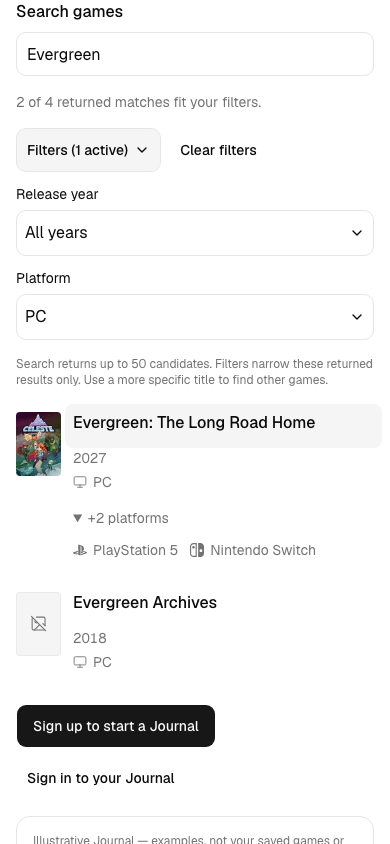
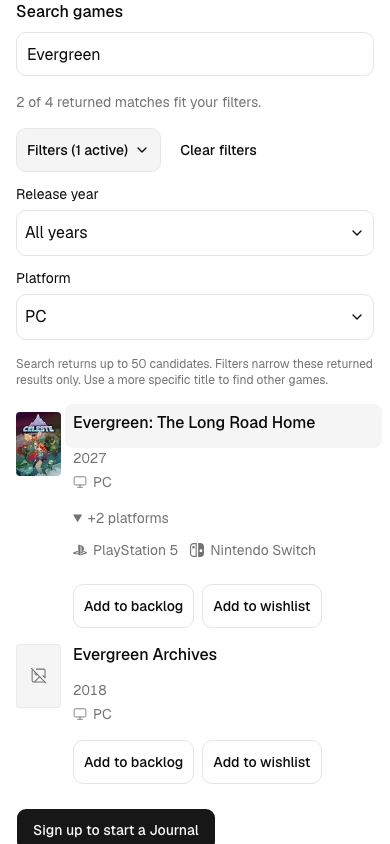
docs: refresh combined Home screenshots and final acceptance results

Changed region(s): [[0.0308, 0.7085, 0.8923, 1.0], [0.5538, 0.8934, 0.8, 0.9242]]

diff --git a/docs/pr-screenshots/home-spec-78/acceptance.md b/docs/pr-screenshots/home-spec-78/acceptance.md
@@ -1,8 +1,8 @@
 # Home spec #78 acceptance evidence
 
-Baseline: `d4f0a08`. Issue #78 is one spec with no child tickets. Related #77
-remains a separate issue; this change reuses the existing Journal mutation path
-and canonical game IDs without adding a second Home save implementation.
+Baseline: `d4f0a08`. Issue #78 is one spec with no child tickets. Related #77 merged into main through PR #80 during implementation. This branch
+integrates it and reuses its single save coordinator, canonical game IDs, owner
+checks, explicit guest confirmation, shared Status labels, and solid focus tokens.
 
 | Finding | Observable behavior | Focused evidence |
 | --- | --- | --- |
@@ -29,13 +29,11 @@ Baseline: `pnpm test` passed 28 files / 301 tests. New app-level checks failed
 against the baseline for the missing search landmark and missing Home returnTo.
 Final checks:
 
-- `pnpm lint`: pass (191 files).
+- `pnpm lint`: pass (195 files).
 - `pnpm typecheck`: pass (Next route generation and TypeScript).
-- `pnpm test`: 35 files / 360 tests passed.
-- `pnpm test:e2e --workers=4`: all 87 production browser cases passed.
-- After the final retained-view label fix, the affected discovery, Home-context,
-  Home responsive/personal, and search/Library/Wishlist workflows passed all 12
-  selected production cases with a fresh build.
+- `pnpm test`: 35 files / 366 tests passed.
+- `pnpm test:e2e --workers=4`: all **103** combined production browser cases passed after integrating #77 (3.7 minutes).
+- Focused combined save/discovery/auth/keyboard/focus verification: 13 cases passed.
 - `git diff --check`: pass.
 
 Screenshots were inspected at phone and desktop sizes in both themes. The browser
@@ -60,14 +58,18 @@ one area-level read boundary, so read errors use one area-level recovery state.
 
 No hard documented-standard violations. Two low-priority judgment calls were
 resolved: unused GameSearch guest-content slots were removed, and Home/Wishlist
-release-phase classification now shares `releasePhase`. Lint and typecheck pass.
+release-phase classification now shares `releasePhase`. Lint and typecheck pass. A fresh standards review of the combined #77/#78 diff found no violations or actionable smell findings.
 
 ## Spec review
 
 One partial requirement was found and resolved: both header sign-in entries now
 retain validated Home browsing context. Component and production browser coverage
 exercise both header entry points as well as the body signup/sign-in flow.
-No material scope creep or additional spec defects were found.
+After #77 merged, a fresh review found one additional product issue and two test
+mismatches. Platform disclosures now share the solid 3:1-or-better focus treatment;
+normal-theme and forced-colors browser checks cover them. Skip readiness and focus
+assertions now exercise the accepted game-specific names and stronger system-color
+outlines. No unresolved product finding or material scope creep remains.
 
 ## Runtime corrections
 
@@ -85,3 +87,22 @@ IDs and passes with the change; the discovery retry browser case requires exact
 accessible names after returning to a query-bearing Home view. Recovery checks
 scope themselves to accessible status regions so hidden retained copies cannot
 satisfy or ambiguously fail the outcome assertion.
+
+## Shared Home save integration
+
+All Home occurrences, including discovery, search, Playing, Recently added, and the
+selected Wishlist preview, use the accepted #77 save controls. A single confirmed
+projection supplies counts, current Status, original added timestamps, and only the
+region-resolved release needed by the preview. Per-game reconciliation preserves
+newer responses for other games and sorts by original addition time/title.
+
+The combined browser acceptance changes an older entry through search, verifies
+that its original Recently added position remains, checks region-specific preview
+and subset counts, then changes it through a personal shelf and verifies every
+occurrence, reload, original timestamp, and private history. Pending guest intents
+still require explicit confirmation. Existing owner checks and no-write ordinary
+authentication return coverage remain in place.
+
+Discovery fixture cleanup restores the prior snapshots directly through the
+acknowledged isolated SQL seam; it does not depend on bypassing the production
+refresh lease. Production Retry remains a read-only snapshot refresh.

diff --git a/docs/pr-screenshots/home-spec-78/README.md b/docs/pr-screenshots/home-spec-78/README.md
@@ -5,17 +5,17 @@ with isolated PGlite, fake GameSource, and local mailbox. All accounts and relea
 data are synthetic fixtures. No production account data is shown. Repeated Celeste
 artwork and missing release metadata in the discovery fixtures are intentional.
 
-- `before-guest-desktop.png`: baseline `d4f0a08`, 1440px.
+- `before-guest-desktop.png`: original audit baseline `d4f0a08`, 1440px (before #77).
 - `guest-{dark,light}-{390,1440}.png`: guest introduction, labelled search,
   account actions, illustrative examples, and discovery.
 - `returning-{dark,light}-{390,1440}.png`: collection summaries, release preview,
   compact Playing/Recently added rows, and discovery.
 - `search-light-{390,1440}.png`: controlled fictional Evergreen search results,
-  active phone filters, returned-candidate count, selected primary platform, and
-  expanded additional-platform disclosure. The view is scrolled to search.
+  active phone filters, returned-candidate count, selected primary platform,
+  expanded additional-platform disclosure, and shared direct-save actions. The view is scrolled to search.
 
 The eight guest/returning screenshots come from `e2e/home-spec-78.spec.ts` in the
-final affected-workflow production rerun. The search views use the same controlled-request
+final combined production run after #77 integration. The search views use the same controlled-request
 browser seam with four illustrative candidates. Animations are disabled.
 
 The workflows also check empty/one/two/many entries, 320px/tablet layouts, 200%
@@ -25,3 +25,7 @@ See [finding-by-finding acceptance evidence](acceptance.md).
 No real screen-reader speech or physical-device check is represented by these
 images. Browser semantics and keyboard checks do not establish spoken usability
 or blanket WCAG conformance.
+
+The accepted #77 implementation is integrated from main/PR #80. Final images
+preserve its direct saves, explicit guest confirmation, shared saved-state labels,
+and Status controls alongside this issue's summary/search/accessibility changes.
